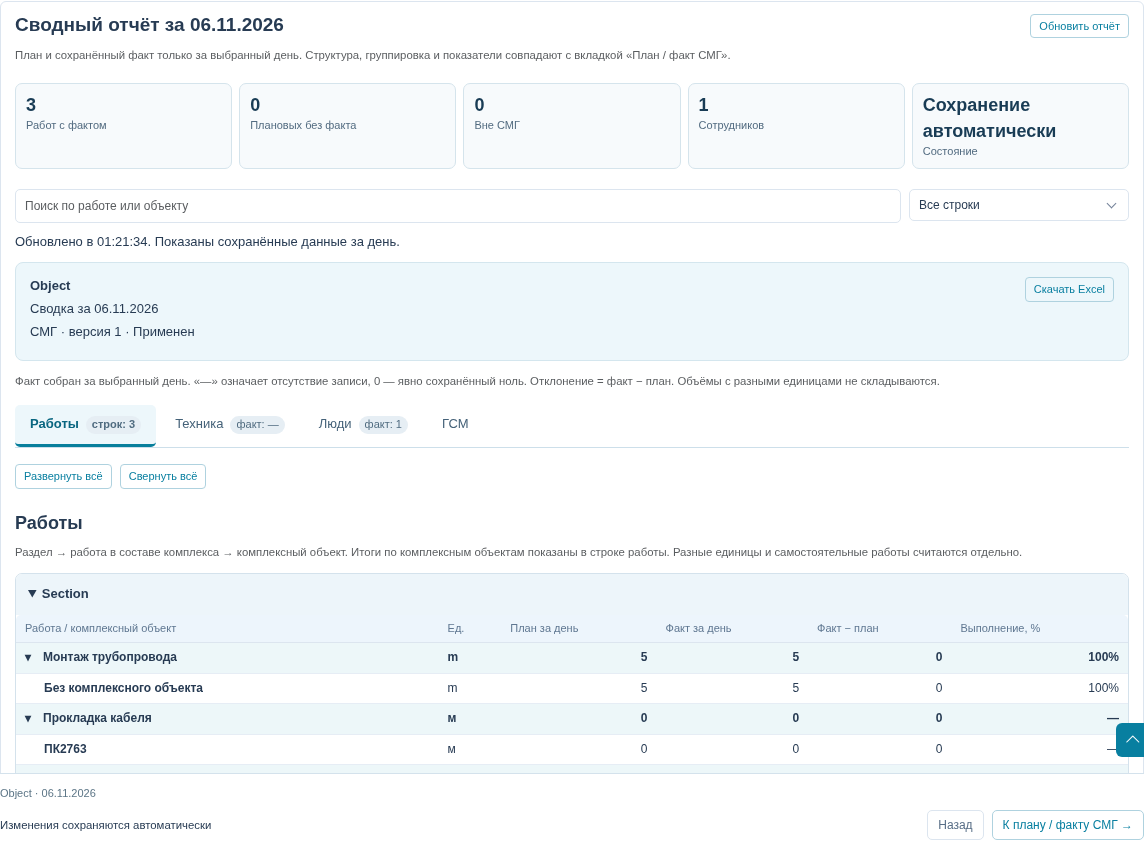
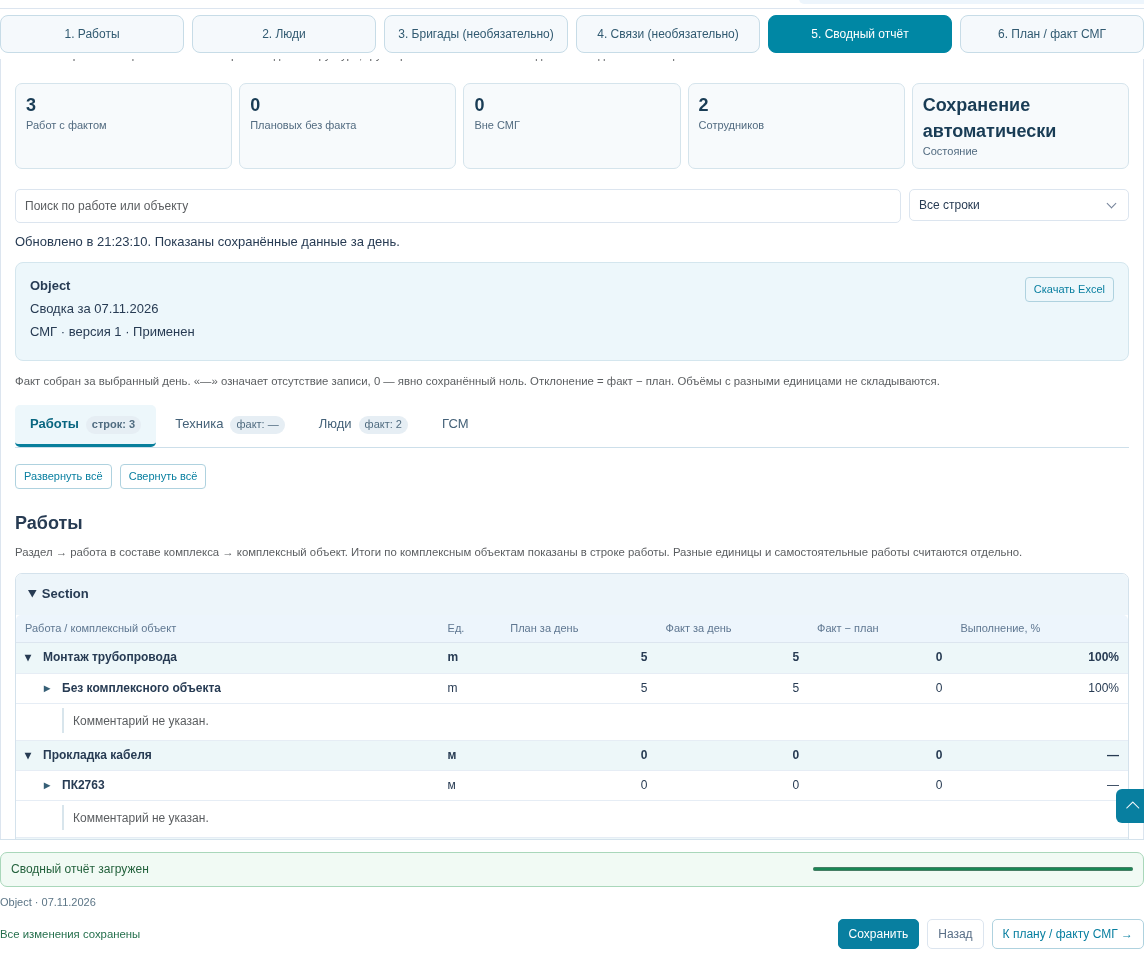
Refresh production instruction screenshots

diff --git a/tests/browser/instructions.js b/tests/browser/instructions.js
@@ -1,15 +1,16 @@
 const {chromium}=require('playwright'),fs=require('fs'),assert=require('node:assert/strict');
 (async()=>{const c=JSON.parse(process.env.INSTRUCTIONS_CONFIG);fs.mkdirSync(c.images,{recursive:true});const browser=await chromium.launch({executablePath:c.chromium,headless:true,args:['--no-sandbox']});let captured=0;try{
 async function pageFor(actor){const ctx=await browser.newContext({viewport:{width:1440,height:1000}});await ctx.addCookies([{name:'sessionid',value:actor.cookie,url:c.base}]);await ctx.route('**/*',r=>{const u=r.request().url();if(u.startsWith(c.base))return r.continue();if(u.includes('bootstrap')&&u.includes('.css'))return r.fulfill({body:fs.readFileSync('/tmp/catalogue-bootstrap.css'),contentType:'text/css'});return r.abort();});const page=await ctx.newPage();page.on('pageerror',error=>{throw error;});await page.goto(c.base+actor.url);
-const context=page.locator('[data-fact-context]');assert.equal(await context.count(),1);assert(await context.locator('time').textContent());assert(await context.locator('.fact-context-scope strong').textContent());assert.equal(await context.locator('[data-fact-date]').count(),2);
-const selector=page.locator('[data-fact-selector]'),date=selector.locator('[name=date]'),original=await date.inputValue();await date.fill('2020-01-01');await date.dispatchEvent('change');assert.equal(await page.locator('[data-fact-filter-warning]').isVisible(),true);assert.equal(await context.locator('time').getAttribute('datetime'),original);await date.fill(original);await date.dispatchEvent('change');assert.equal(await page.locator('[data-fact-filter-warning]').isVisible(),false);
+const context=page.locator('[data-fact-context]');assert.equal(await context.count(),1);assert(await context.locator('time').textContent());assert(await context.locator('.fact-context-scope strong').textContent());assert([0,2].includes(await context.locator('[data-fact-date]').count()));
+const selector=page.locator('[data-fact-selector]'),date=selector.locator('[name=date]');if(await date.count()){const original=await date.inputValue();await date.fill('2020-01-01');await date.dispatchEvent('change');assert.equal(await page.locator('[data-fact-filter-warning]').isVisible(),true);assert.equal(await context.locator('time').getAttribute('datetime'),original);await date.fill(original);await date.dispatchEvent('change');assert.equal(await page.locator('[data-fact-filter-warning]').isVisible(),false);}
 return page;}
 async function shot(page,name,selector){if(selector){const el=page.locator(selector).first();await el.scrollIntoViewIfNeeded();await el.screenshot({path:c.images+'/'+name+'.png',animations:'disabled'});}else{await page.evaluate(()=>scrollTo(0,0));const box=await page.locator('main').boundingBox();await page.screenshot({path:c.images+'/'+name+'.png',clip:{x:Math.max(0,box.x),y:Math.max(0,box.y),width:Math.min(1160,box.width),height:Math.min(720,1000-Math.max(0,box.y))},animations:'disabled'});}captured++;}
 async function help(page,slug){const original=page.url(),entry=page.locator('[data-instructions-link]');assert.equal(await entry.count(),1);assert.equal(await entry.getAttribute('target'),'_blank');const popupPromise=page.waitForEvent('popup');await entry.click();const popup=await popupPromise;await popup.waitForLoadState();assert(popup.url().includes('/instructions/'+slug+'/'));assert.equal(page.url(),original);assert(await popup.locator('.help-toc').count());await popup.close();await page.setViewportSize({width:390,height:844});const box=await entry.boundingBox();assert(box.x>=0&&box.x+box.width<=390);assert(await page.evaluate(()=>document.documentElement.scrollWidth<=innerWidth+2));await page.evaluate(()=>scrollTo(0,0));await page.screenshot({path:'/tmp/fact-ux-mobile-'+slug+'.png',fullPage:true});await page.setViewportSize({width:1440,height:1000});}
 const production=await pageFor(c.production);await help(production,'production');await shot(production,'production-start');
 const next=production.locator('[data-step-next]'),previous=production.locator('[data-step-previous]');assert.equal(await previous.isVisible(),false);await next.click();assert.equal(await previous.isVisible(),true);assert((await next.textContent()).includes('К бригадам'));await previous.click();assert.equal(await previous.isVisible(),false);
-for(const d of await production.locator('[data-work-object],[data-work-package]').all())await d.evaluate(el=>el.open=true);await shot(production,'production-works','[data-work-fact-row]');for(const [step,name] of [[2,'production-people'],[3,'production-crews'],[4,'production-links'],[5,'production-report']]){await production.locator('[data-step="'+step+'"]').click();await shot(production,name,'[data-entry-step="'+step+'"]');}
-await production.locator('[data-step="1"]').click();const work=production.locator('[data-work-fact-row]').first(),quantity=work.locator('[name$="-actual_quantity"]'),savedQuantity=await quantity.inputValue();await quantity.fill('');await production.locator('[data-fact-error-summary]').waitFor();await production.locator('[data-step="4"]').click();await production.locator('[data-fact-error-list] button').first().click();assert.equal(await production.locator('[data-step="1"]').getAttribute('aria-current'),'step');assert.equal(await quantity.evaluate(e=>document.activeElement===e),true);await quantity.fill(savedQuantity);await production.locator('[data-autosave-state]').filter({hasText:'Все изменения сохранены'}).waitFor();
+for(const d of await production.locator('[data-work-object],[data-work-package]').all())await d.evaluate(el=>el.open=true);await shot(production,'production-works','[data-work-fact-row]');for(const [step,name] of [[2,'production-people'],[3,'production-crews'],[4,'production-links'],[5,'production-report']]){await production.locator('[data-step="'+step+'"]').click();if(step===3)await production.locator('.production-crew-recommendations').waitFor();await shot(production,name,'[data-entry-step="'+step+'"]');}
+await production.locator('[data-step="1"]').click();const quantity=production.locator('[data-work-fact-row] [name$="-actual_quantity"][value]:not([value=""])').first(),savedQuantity=await quantity.inputValue(),changedQuantity=String(Number(savedQuantity.replace(',','.'))+1);await quantity.fill(changedQuantity);await Promise.all([production.waitForResponse(response=>response.request().method()==='POST'&&response.url().includes('/production/')),production.locator('[data-production-save]').click()]);await production.locator('[data-autosave-state]').filter({hasText:'Все изменения сохранены'}).waitFor();await quantity.fill(savedQuantity);await Promise.all([production.waitForResponse(response=>response.request().method()==='POST'&&response.url().includes('/production/')),production.locator('[data-production-save]').click()]);await production.locator('[data-autosave-state]').filter({hasText:'Все изменения сохранены'}).waitFor();
+if(c.production_only){console.log('PASS: current production workflow and six instruction screenshots captured.');return;}
 
 const rotation=await pageFor(c.rotation);await help(rotation,'rotation');await shot(rotation,'rotation-start');await shot(rotation,'rotation-roster','[data-housing-panel=roster]');await rotation.locator('[data-housing-tab=movement]').click();await shot(rotation,'rotation-movement','[data-housing-panel=movement]');await rotation.locator('[data-housing-tab=calendar]').click();await rotation.locator('[data-calendar-table-scroll]').waitFor();await shot(rotation,'rotation-calendar','[data-housing-panel=calendar]');
 const lodging=await pageFor(c.lodging);await help(lodging,'lodging');await shot(lodging,'lodging-start');await lodging.locator('[data-open-lodging-movement]').click();await shot(lodging,'lodging-movement','[data-lodging-movement]');await lodging.goto(c.base+new URL(await lodging.getByRole('link',{name:'Сверка с перевахтой',exact:true}).getAttribute('href'),c.base).pathname+'?'+new URL(c.base+c.lodging.url).searchParams);await shot(lodging,'lodging-reconcile');

diff --git a/core/test_instructions_browser.py b/core/test_instructions_browser.py
@@ -19,6 +19,7 @@ class InstructionsBrowserTests(StaticLiveServerTestCase):
         from apps.production import transport,camp_fuel
         from apps.personnel.models import LodgingStay
         from apps.resources.test_transport_import import TransportImportTests,upload
+        from apps.resources.models import Employee
         from apps.resources import transport_import
         demo=type('TransportDemo',(),{});TransportTests.setUpTestData.__func__(demo)
         home=type('HousingDemo',(),{});LodgingTests.setUpTestData.__func__(home)
@@ -29,6 +30,9 @@ class InstructionsBrowserTests(StaticLiveServerTestCase):
         for work,item,quantity in [(demo.work,None,5),(package,camera,30),(package,cable,0)]:DailyFact.objects.create(company=demo.company,project_work=work,work_item=item,date=demo.day,actual_quantity=quantity,reported_by=demo.users['DISPATCHER'])
         person=EmployeeActivity.objects.create(company=demo.company,construction_object=demo.obj,date=demo.day,employee=demo.employee,position=demo.employee.position,work=demo.work,entry_direction='works',assignment_reviewed=True,reported_by=demo.users['DISPATCHER'])
         EmployeeWorkLink.objects.create(company=demo.company,activity=person,work=demo.work)
+        second_employee=Employee.objects.create(company=demo.company,last_name='Петров',first_name='Пётр',middle_name='Учебный',employee_number='HELP-002',position=demo.employee.position)
+        second_person=EmployeeActivity.objects.create(company=demo.company,construction_object=demo.obj,date=demo.day,employee=second_employee,position=second_employee.position,work=demo.work,entry_direction='works',assignment_reviewed=True,reported_by=demo.users['DISPATCHER'])
+        EmployeeWorkLink.objects.create(company=demo.company,activity=second_person,work=demo.work)
         transport.move(demo.admin,demo.camp,demo.day,[demo.machine.pk],'ARRIVAL',condition='READY',signed=transport.snapshot(demo.admin,demo.camp,demo.day))
         transport.save_day(demo.admin,demo.camp,demo.day,[demo.machine.pk],'WORKED',signed=transport.snapshot(demo.admin,demo.camp,demo.day))
         LodgingStay.objects.create(company=home.company,camp=home.a,bed=home.bed,employee=home.second_employee,arrived_on=home.day,recorded_by=home.commandant,keys_issued=True,key_number='12')
@@ -39,7 +43,7 @@ class InstructionsBrowserTests(StaticLiveServerTestCase):
             user.last_name='Учебный';user.first_name='Пользователь';user.save(update_fields=['last_name','first_name'])
             client=Client();client.force_login(user);return client.cookies['sessionid'].value
         from urllib.parse import urlencode
-        config={'base':self.live_server_url,'chromium':shutil.which('chromium'),'images':str(Path(__file__).resolve().parents[1]/'static/instructions'),
+        config={'base':self.live_server_url,'chromium':shutil.which('chromium'),'images':str(Path(__file__).resolve().parents[1]/'static/instructions'),'production_only':os.environ.get('INSTRUCTIONS_PRODUCTION_ONLY')=='1',
             'production':{'cookie':actor(demo.users['DISPATCHER']),'url':reverse('production:fact_day_workspace')+'?'+urlencode({'construction_object':demo.obj.pk,'date':str(demo.day),'section':'works'})},
             'rotation':{'cookie':actor(home.hr),'url':reverse('personnel:housing')+'?'+urlencode({'camp':home.a.pk,'date':str(home.day)})},
             'lodging':{'cookie':actor(home.commandant),'url':reverse('personnel:lodging')+'?'+urlencode({'camp':home.a.pk,'date':str(home.day)})},
